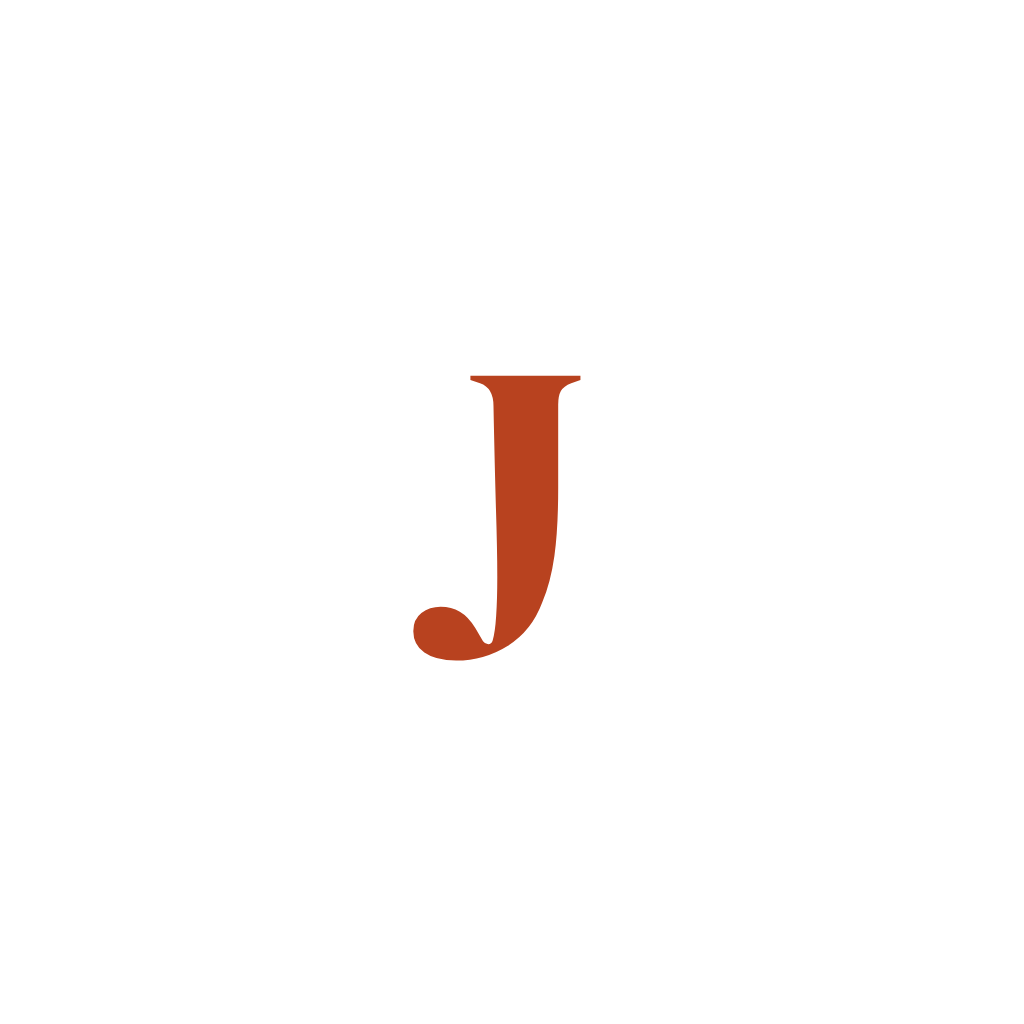
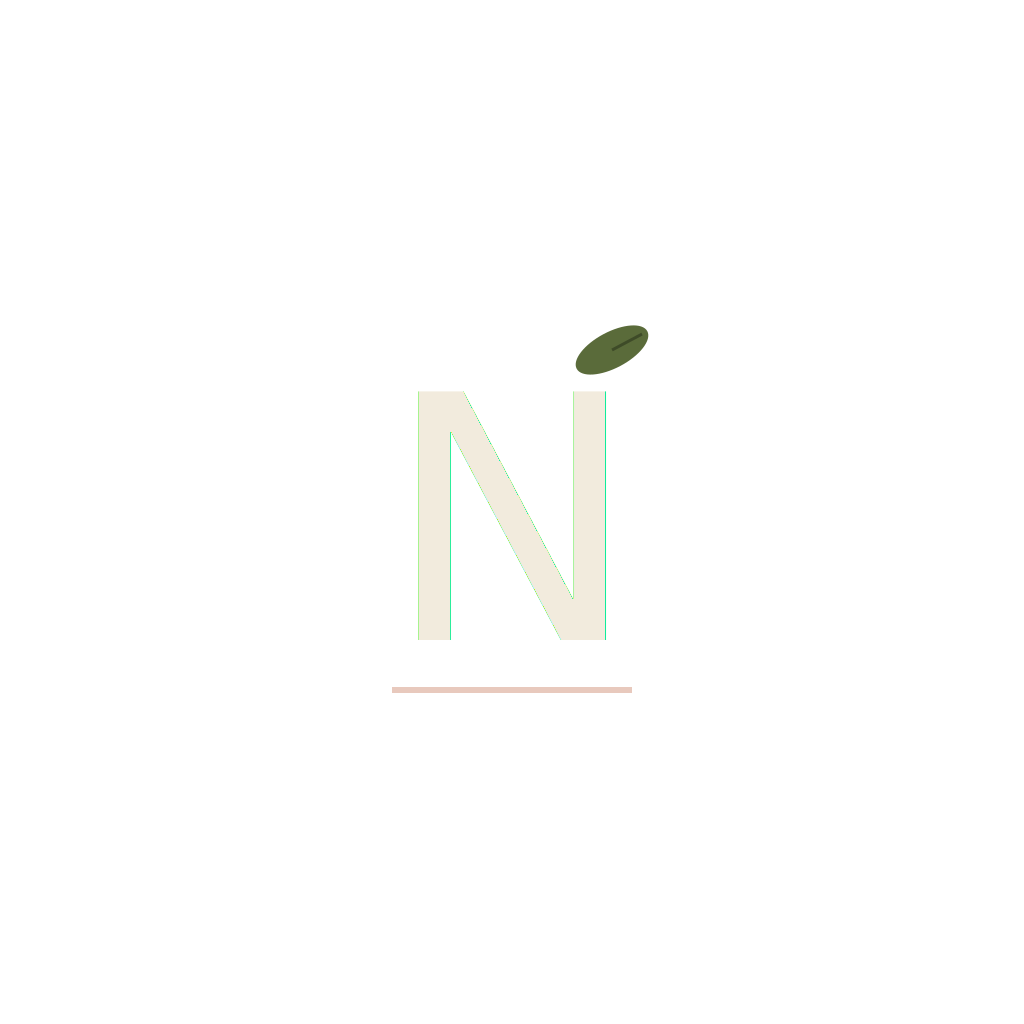
Rebrand app to Nana with new brand assets
Replaces the placeholder icon/splash from the previous session with
a proper brand: an italic serif "N" with a basil-leaf accent on the
existing tomato/paper palette, plus a wordmark ("Nana · your family,
your table"). Renames the app everywhere it's user-visible or part
of the app identity: app.json (name/slug/scheme), package.json, and
the settings screen footer.

Also adds splash-full.png (the full wordmark splash from the brand
kit) to assets/, but does not wire it up as an animated post-launch
splash screen — react-native-web's Image component has a rendering
bug (an internally generated background layer gets a hardcoded
negative z-index) that made it invisible in the web preview used to
verify this session's work, and I didn't have a way to confirm it
renders correctly on native before shipping it. The native splash
(icon on solid color, via app.json) is unaffected and works as
before. Revisit wiring up splash-full.png as a custom post-launch
screen once it can be verified on-device.

Changed region(s): [[0.375, 0.3125, 0.6562, 0.6875]]

diff --git a/app/settings.tsx b/app/settings.tsx
@@ -163,7 +163,7 @@ export default function SettingsScreen() {
 
         <Rule />
 
-        <Text style={styles.versionNote}>Jedilnik · version 1.0.0 · prices updated May 5, 2026</Text>
+        <Text style={styles.versionNote}>Nana · version 1.0.0 · prices updated May 5, 2026</Text>
       </ScrollView>
     </SafeAreaView>
   );
